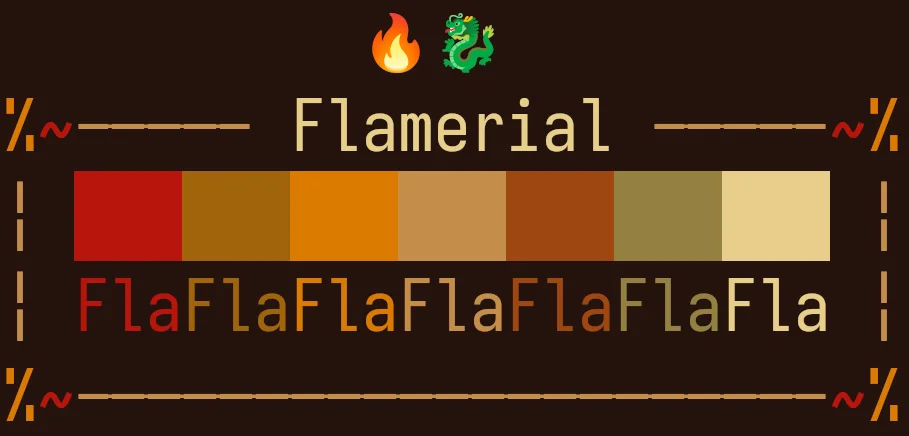
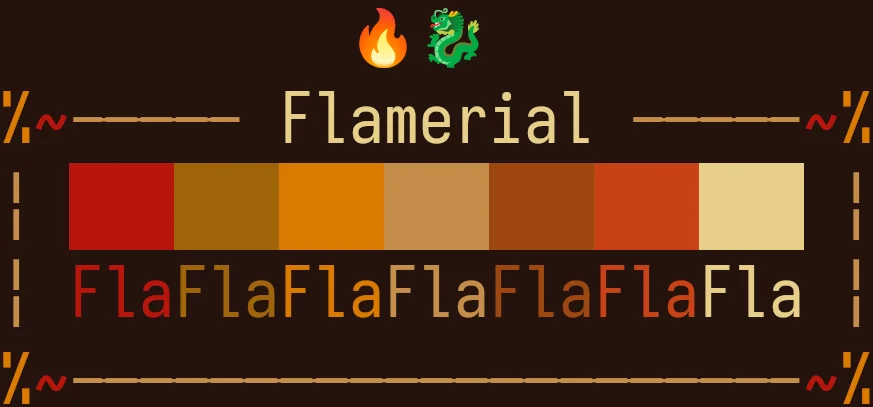
replace cyan color

diff --git a/ports/hyper/flamerial.js b/ports/hyper/flamerial.js
@@ -12,7 +12,7 @@ modules.exports = {
       yellow: '#db7a00',
       blue: '#c48d49',
       magenta: '#9e4711',
-      cyan: '#948141',
+      cyan: '#c74216',
       white: '#e8cf89',
       lightBlack: '#c48d49',
       lightRed: '#b8150d',
@@ -20,7 +20,7 @@ modules.exports = {
       lightYellow: '#db7a00',
       lightBlue: '#c48d49',
       lightMagenta: '#9e4711',
-      lightCyan: '#948141',
+      lightCyan: '#c74216',
       lightWhite: '#e8cf89',
       limeGreen: '#32cd32',
       lightCoral: '#f08080'

diff --git a/ports/st/flamerial.h b/ports/st/flamerial.h
@@ -1,7 +1,7 @@
 static const char *colorname[] = {"#24130e", "#b8150d", "#a1650b", "#db7a00",
-				  "#c48d49", "#9e4711", "#948141", "#e8cf89",
+				  "#c48d49", "#9e4711", "#c74216", "#e8cf89",
 				  "#c48d49", "#b8150d", "#a1650b", "#db7a00",
-				  "#c48d49", "#9e4711", "#948141", "#e8cf89"};
+				  "#c48d49", "#9e4711", "#c74216", "#e8cf89"};
 unsigned int defaultfg = 15;
 unsigned int defaultbg = 0;
 unsigned int defaultcs = 15;

diff --git a/README.md b/README.md
@@ -69,7 +69,7 @@ Available ports are under the `ports` directory. Access it, find one you would l
 		<tr>
 			<td>6</td>
 			<td>Cyan</td>
-			<td><code>#948141</code></td>
+			<td><code>#c74216</code></td>
 		</tr>
 		<tr>
 			<td>7</td>
